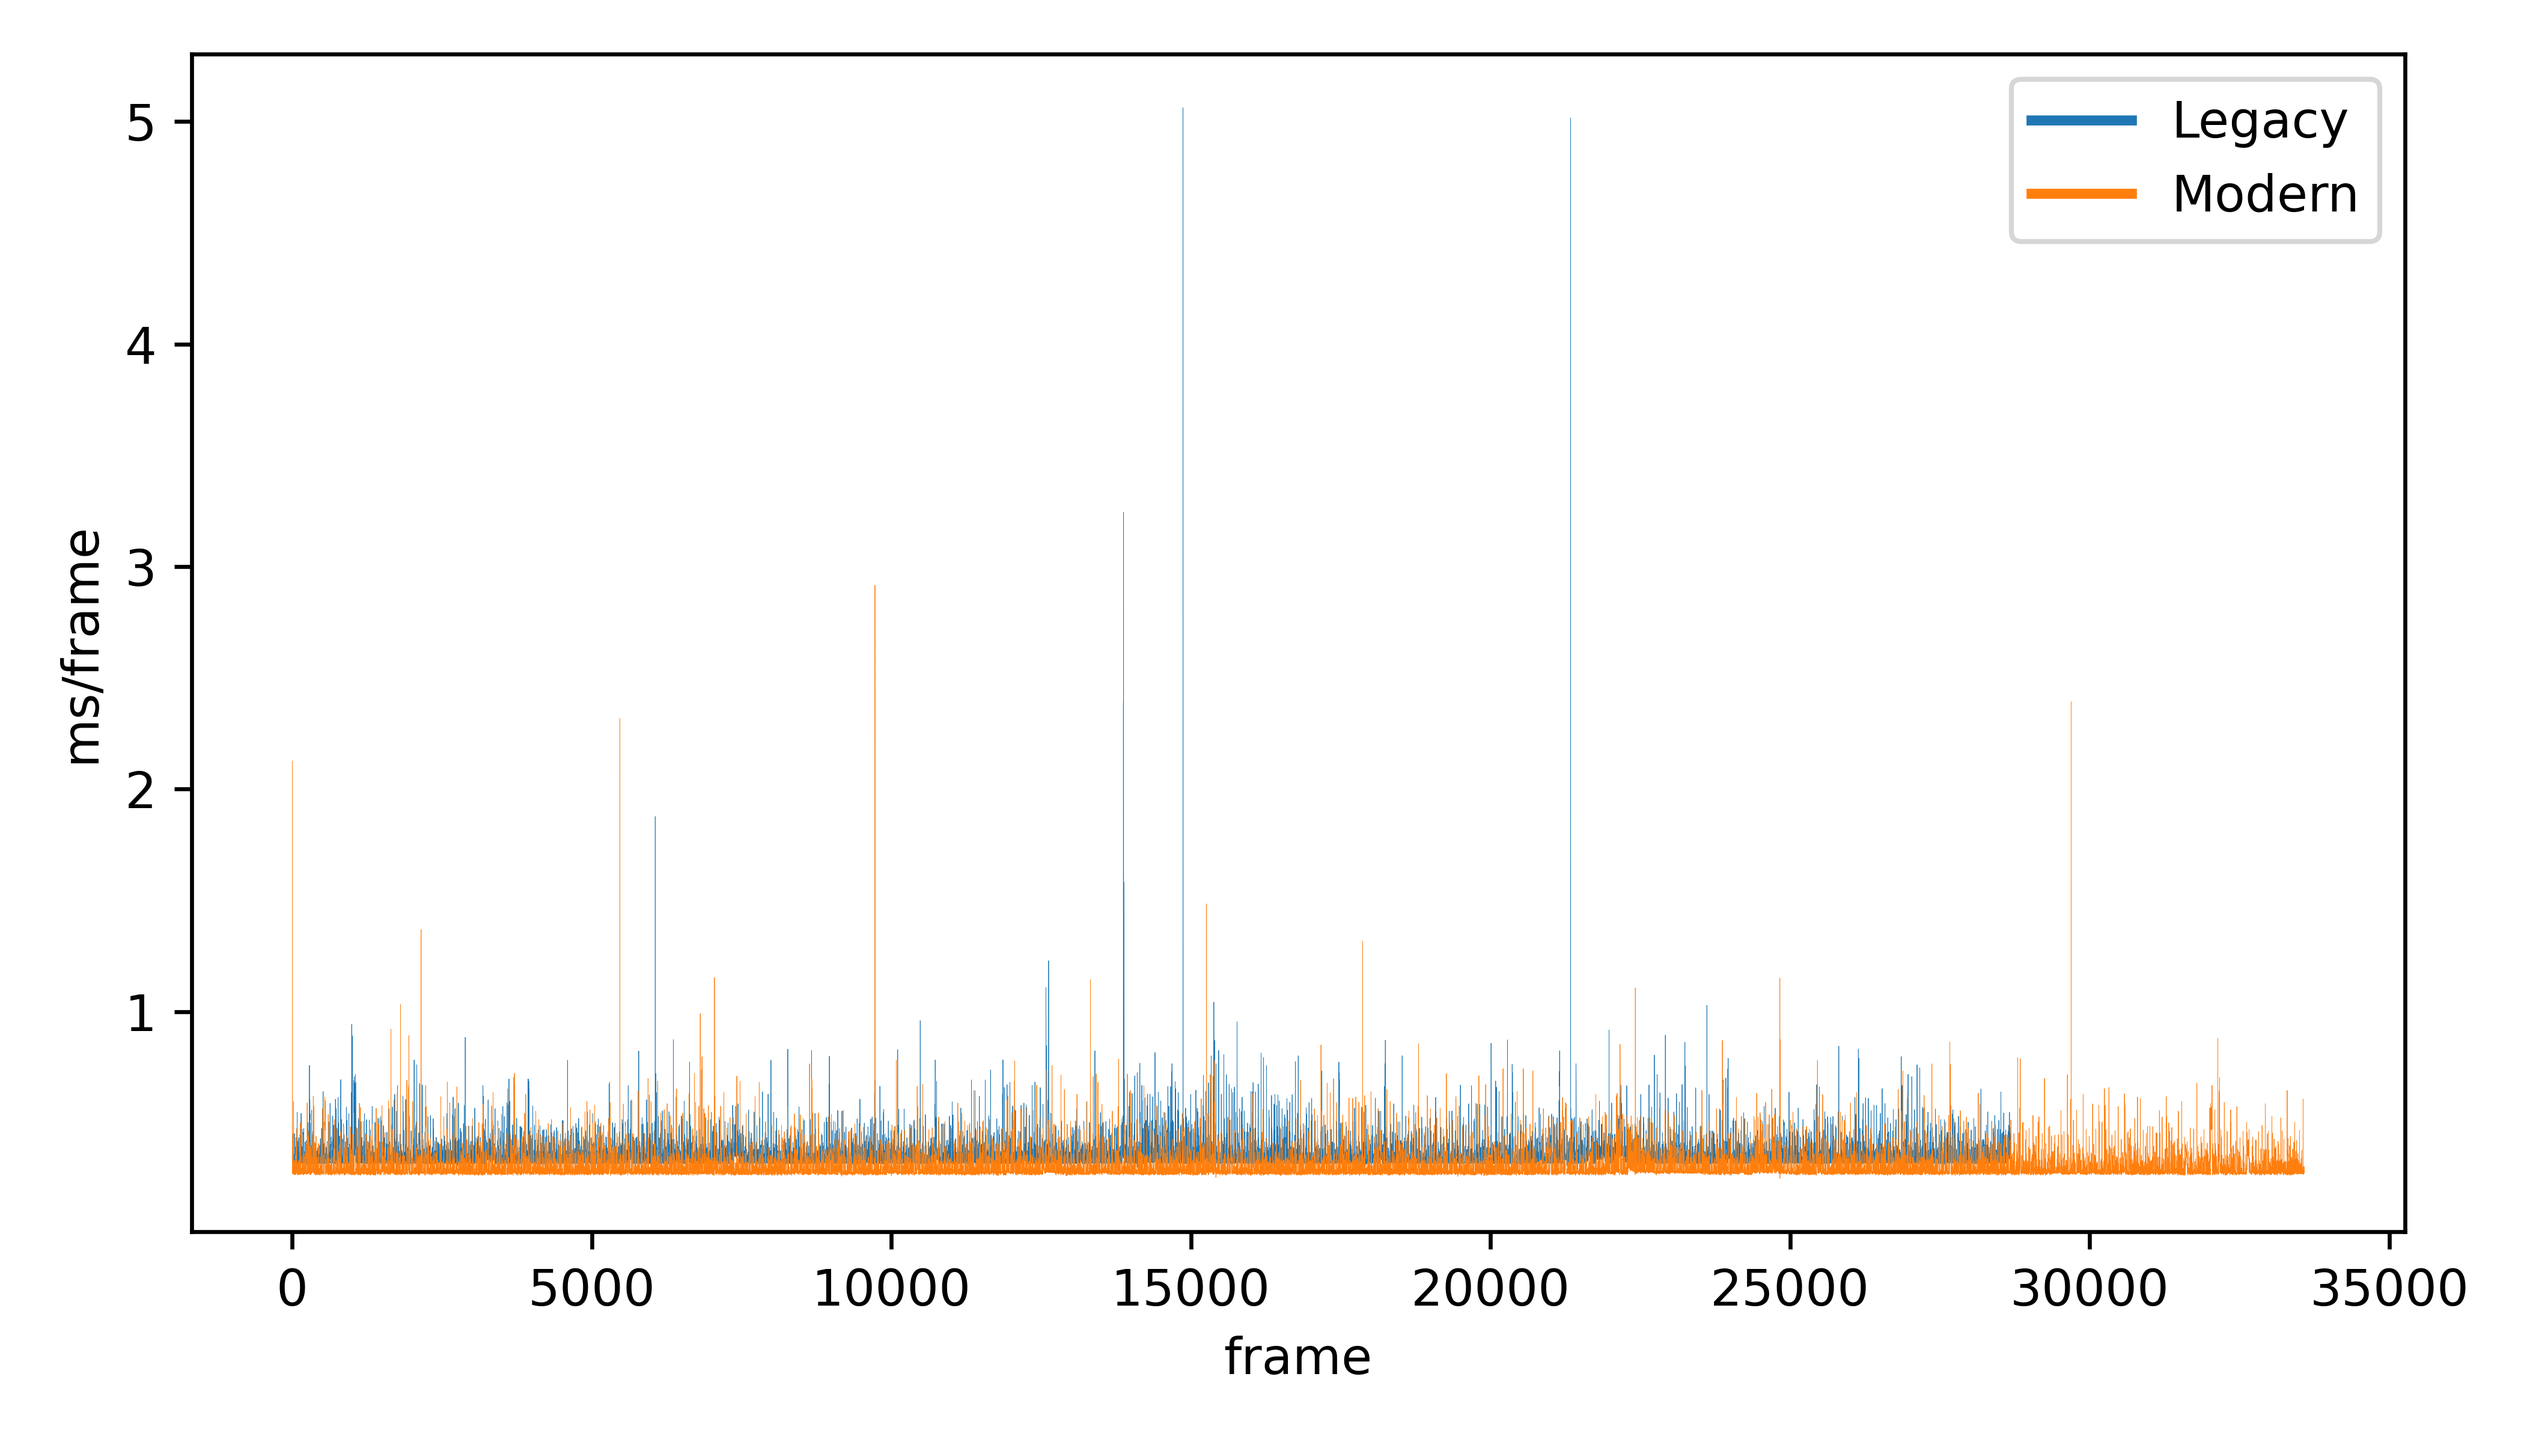
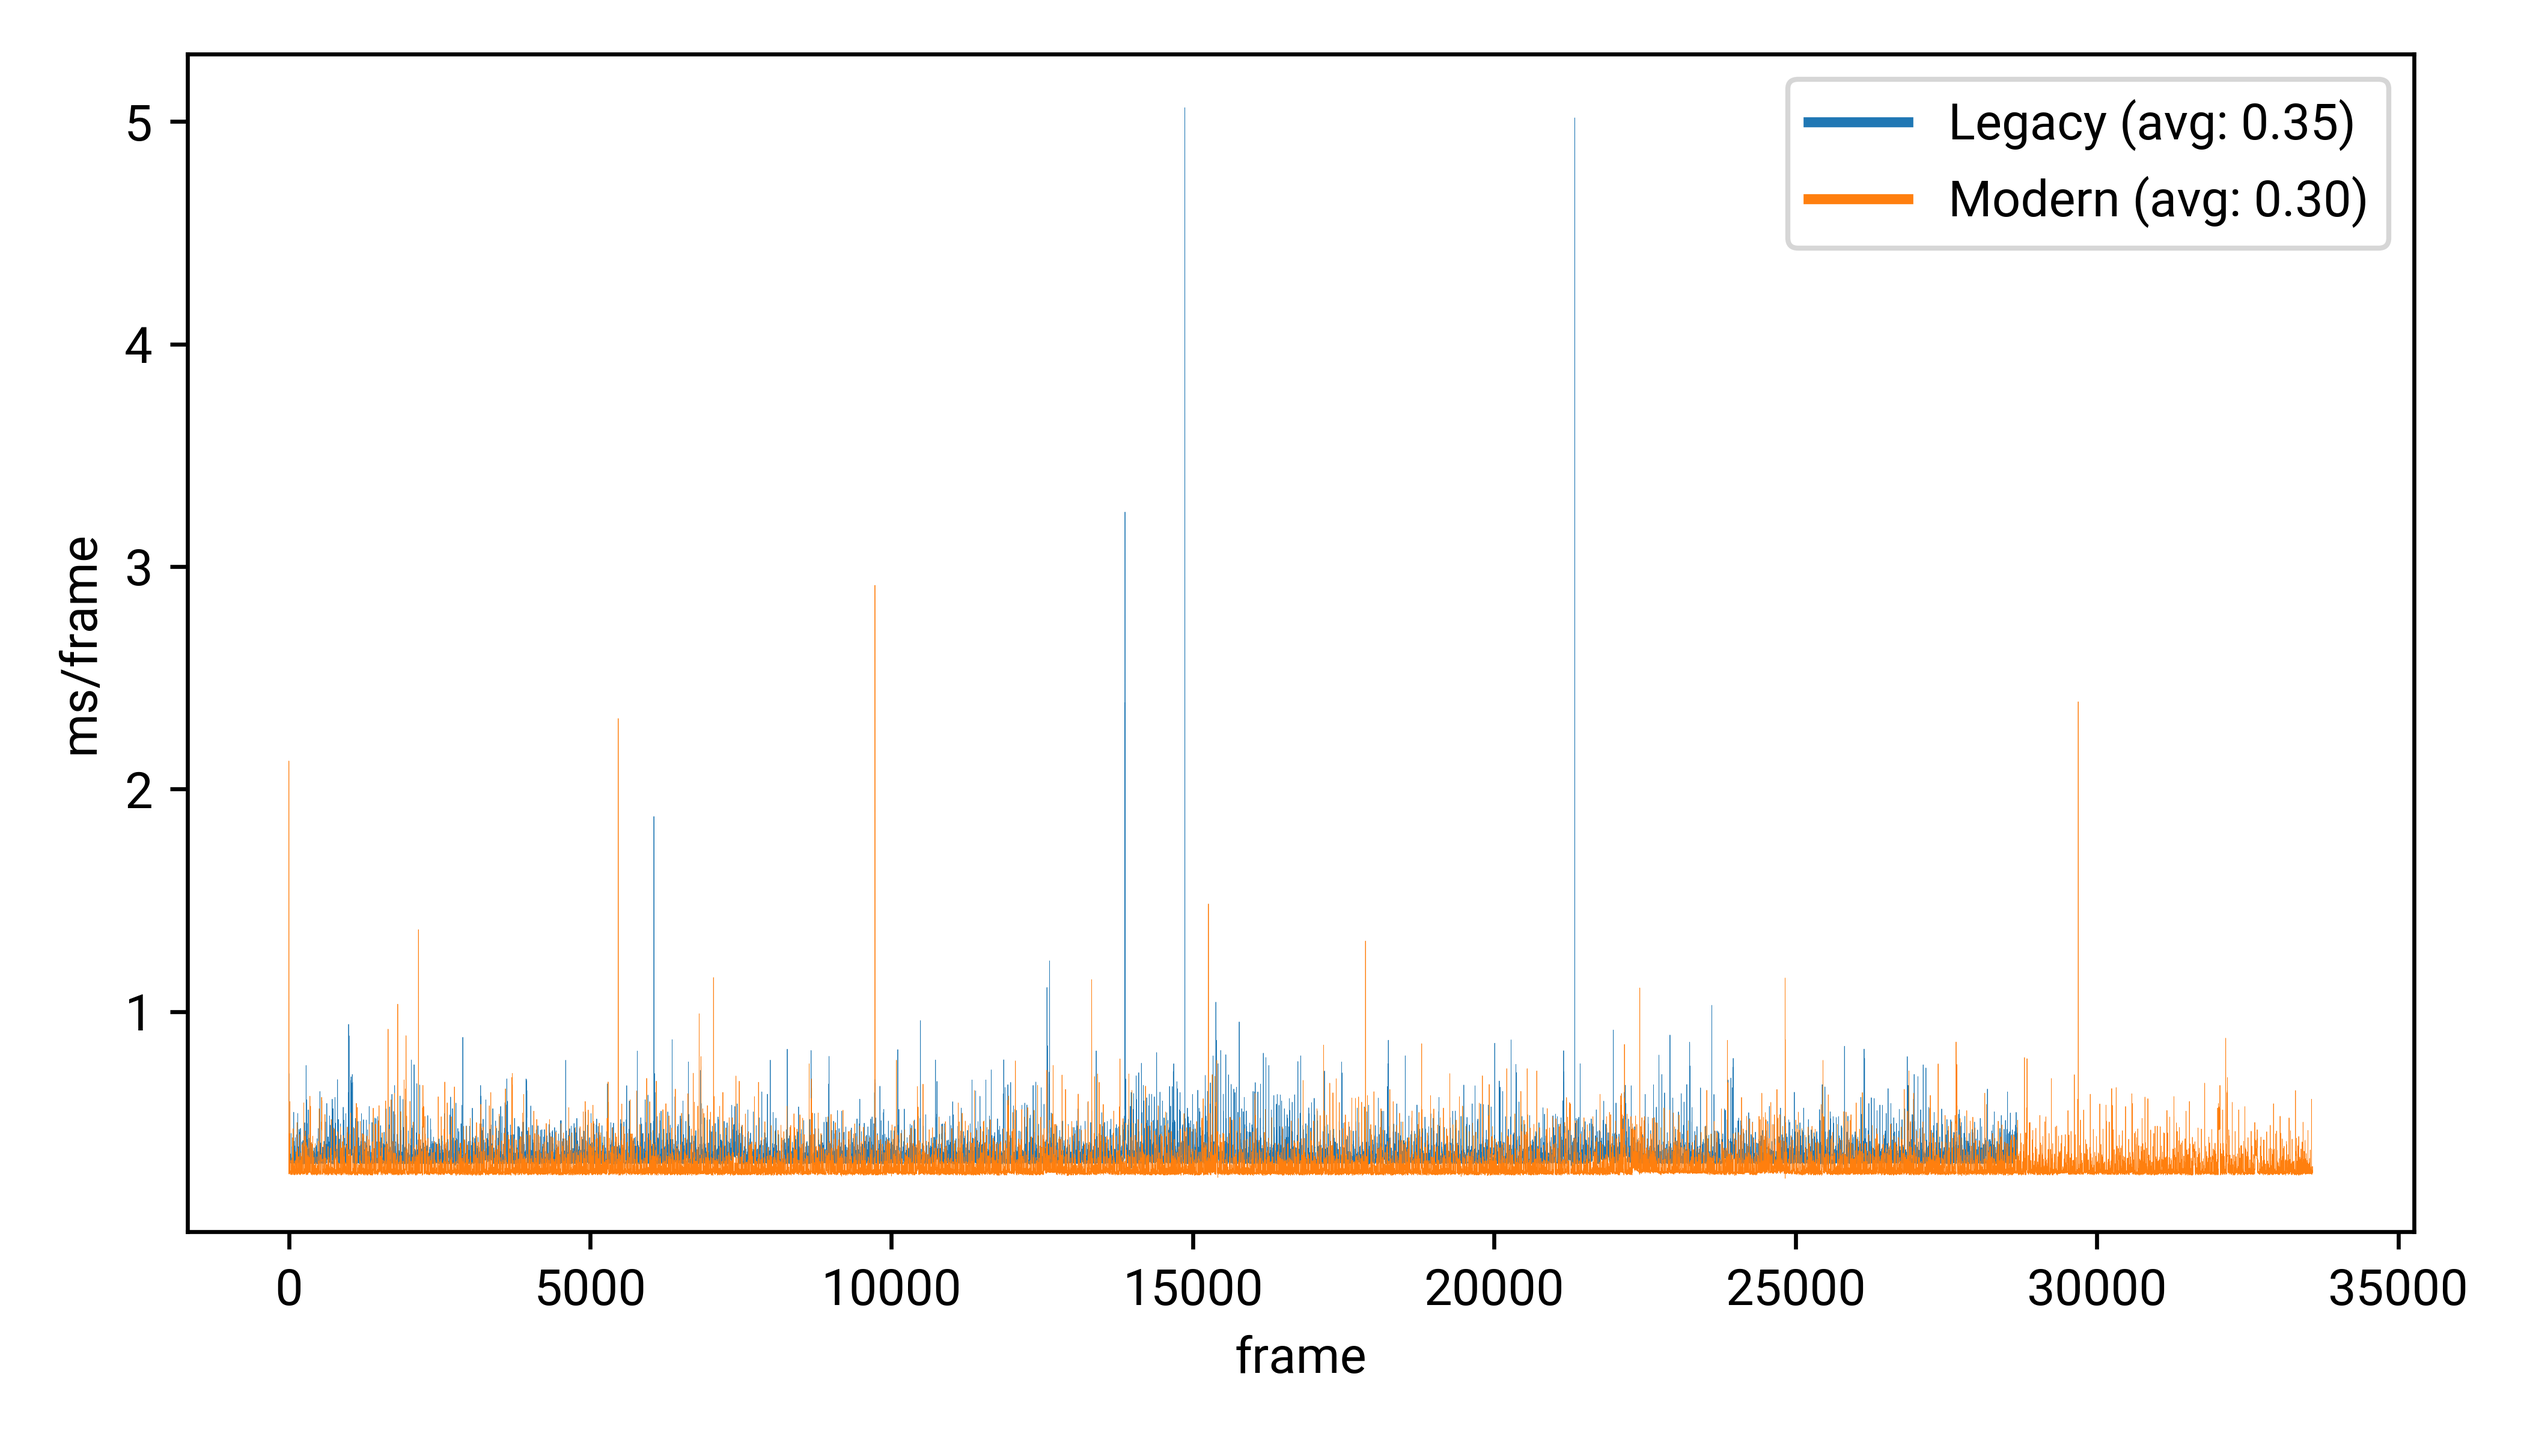
Change plot font and add average

diff --git a/.github/plot_scripts/plot.py b/.github/plot_scripts/plot.py
@@ -1,14 +1,19 @@
 import numpy as np
 import matplotlib.pyplot as plt
 
+plt.rcParams["font.family"] = "Roboto"
+
 gl = np.loadtxt("in/milliseconds_legacy.txt")
 gm = np.loadtxt("in/milliseconds_modern.txt")
+
+avgl = np.average(gl)
+avgm = np.average(gm)
 
 plt.figure(figsize=(7,4))
 
 linewidth=0.1
-plt.plot(gl, linewidth=linewidth, label="Legacy")
-plt.plot(gm, linewidth=linewidth, label="Modern")
+plt.plot(gl, linewidth=linewidth, label="Legacy " + f"(avg: {avgl:.2f})")
+plt.plot(gm, linewidth=linewidth, label="Modern " + f"(avg: {avgm:.2f})")
 
 leg = plt.legend()
 plt.xlabel("frame")

diff --git a/.github/plot_scripts/hist.py b/.github/plot_scripts/hist.py
@@ -1,14 +1,19 @@
 import numpy as np
 import matplotlib.pyplot as plt
 
+plt.rcParams["font.family"] = "Roboto"
+
 gl = np.loadtxt("in/milliseconds_legacy.txt")
 gm = np.loadtxt("in/milliseconds_modern.txt")
+
+avgl = np.average(gl)
+avgm = np.average(gm)
 
 plt.xlim(0.25, 0.6)
 
 bins = int(max(len(gl), len(gm)) / 10)
-plt.hist(gl, bins=bins, label="Legacy")
-plt.hist(gm, bins=bins, label="Modern")
+plt.hist(gl, bins=bins, label="Legacy " + f"(avg: {avgl:.2f})")
+plt.hist(gm, bins=bins, label="Modern " + f"(avg: {avgm:.2f})")
 
 plt.legend()
 plt.xlabel("ms/frame")
